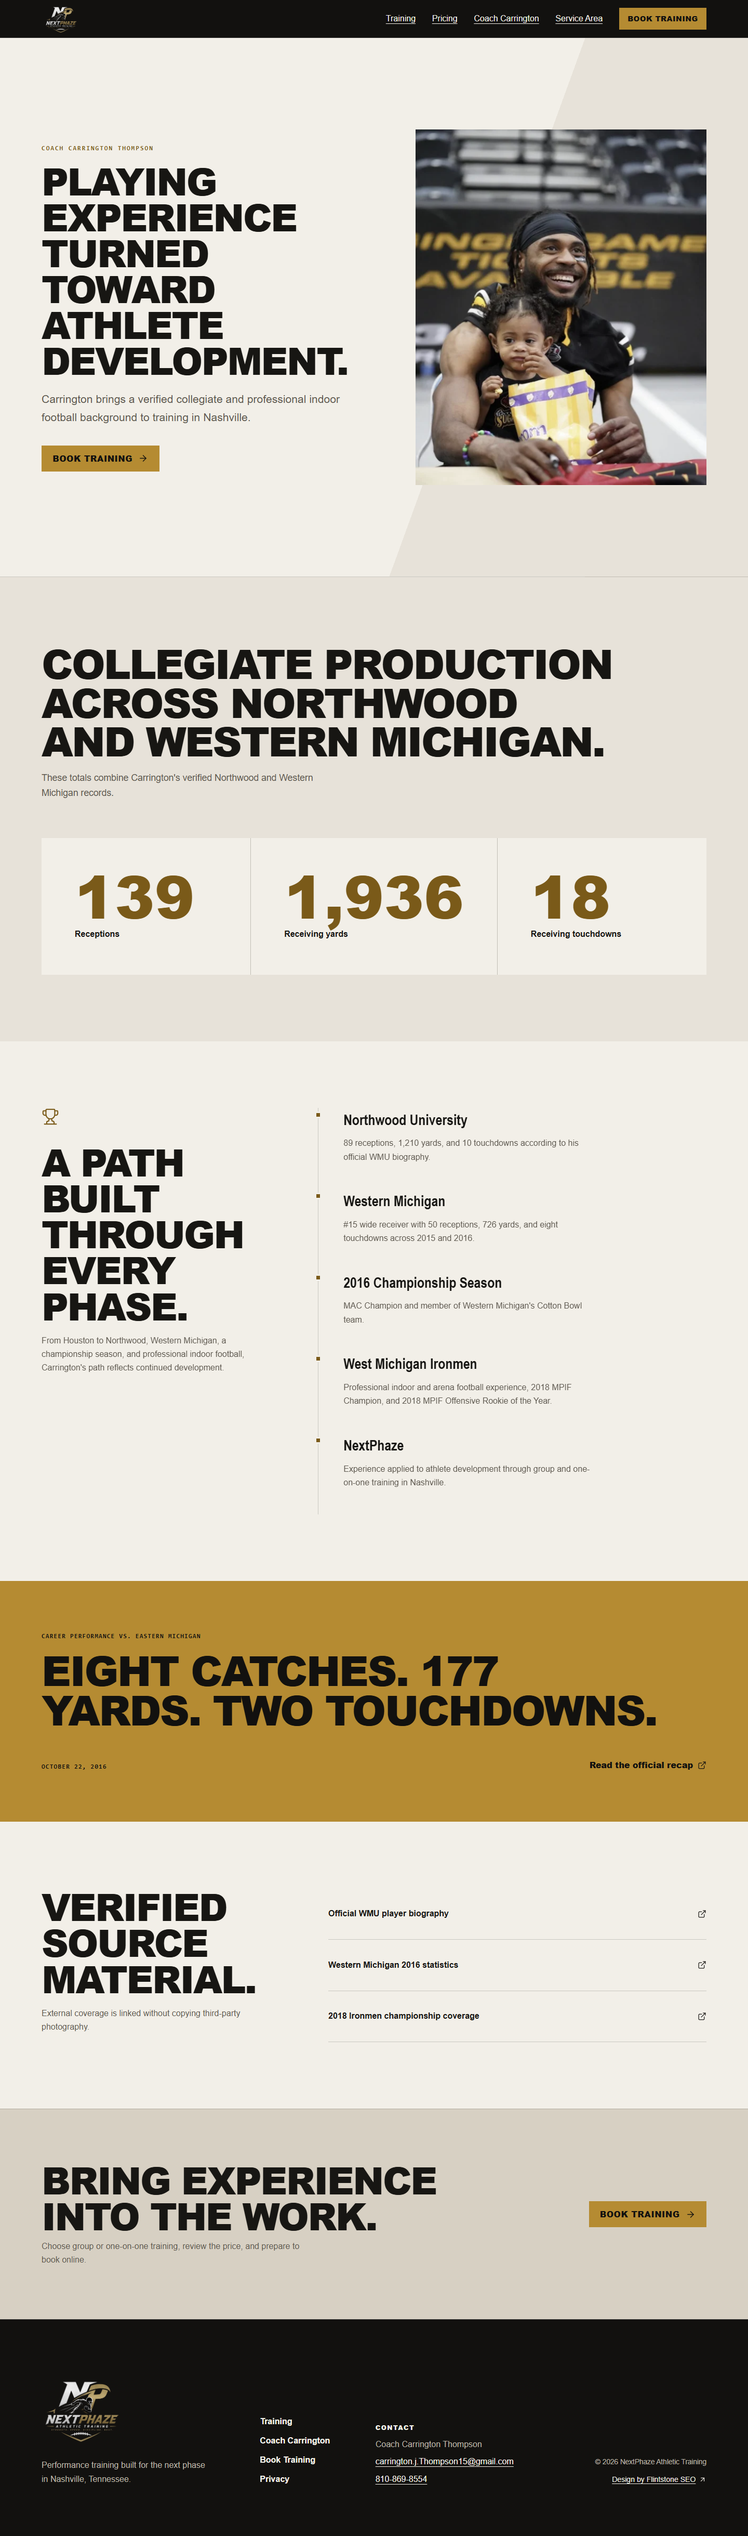
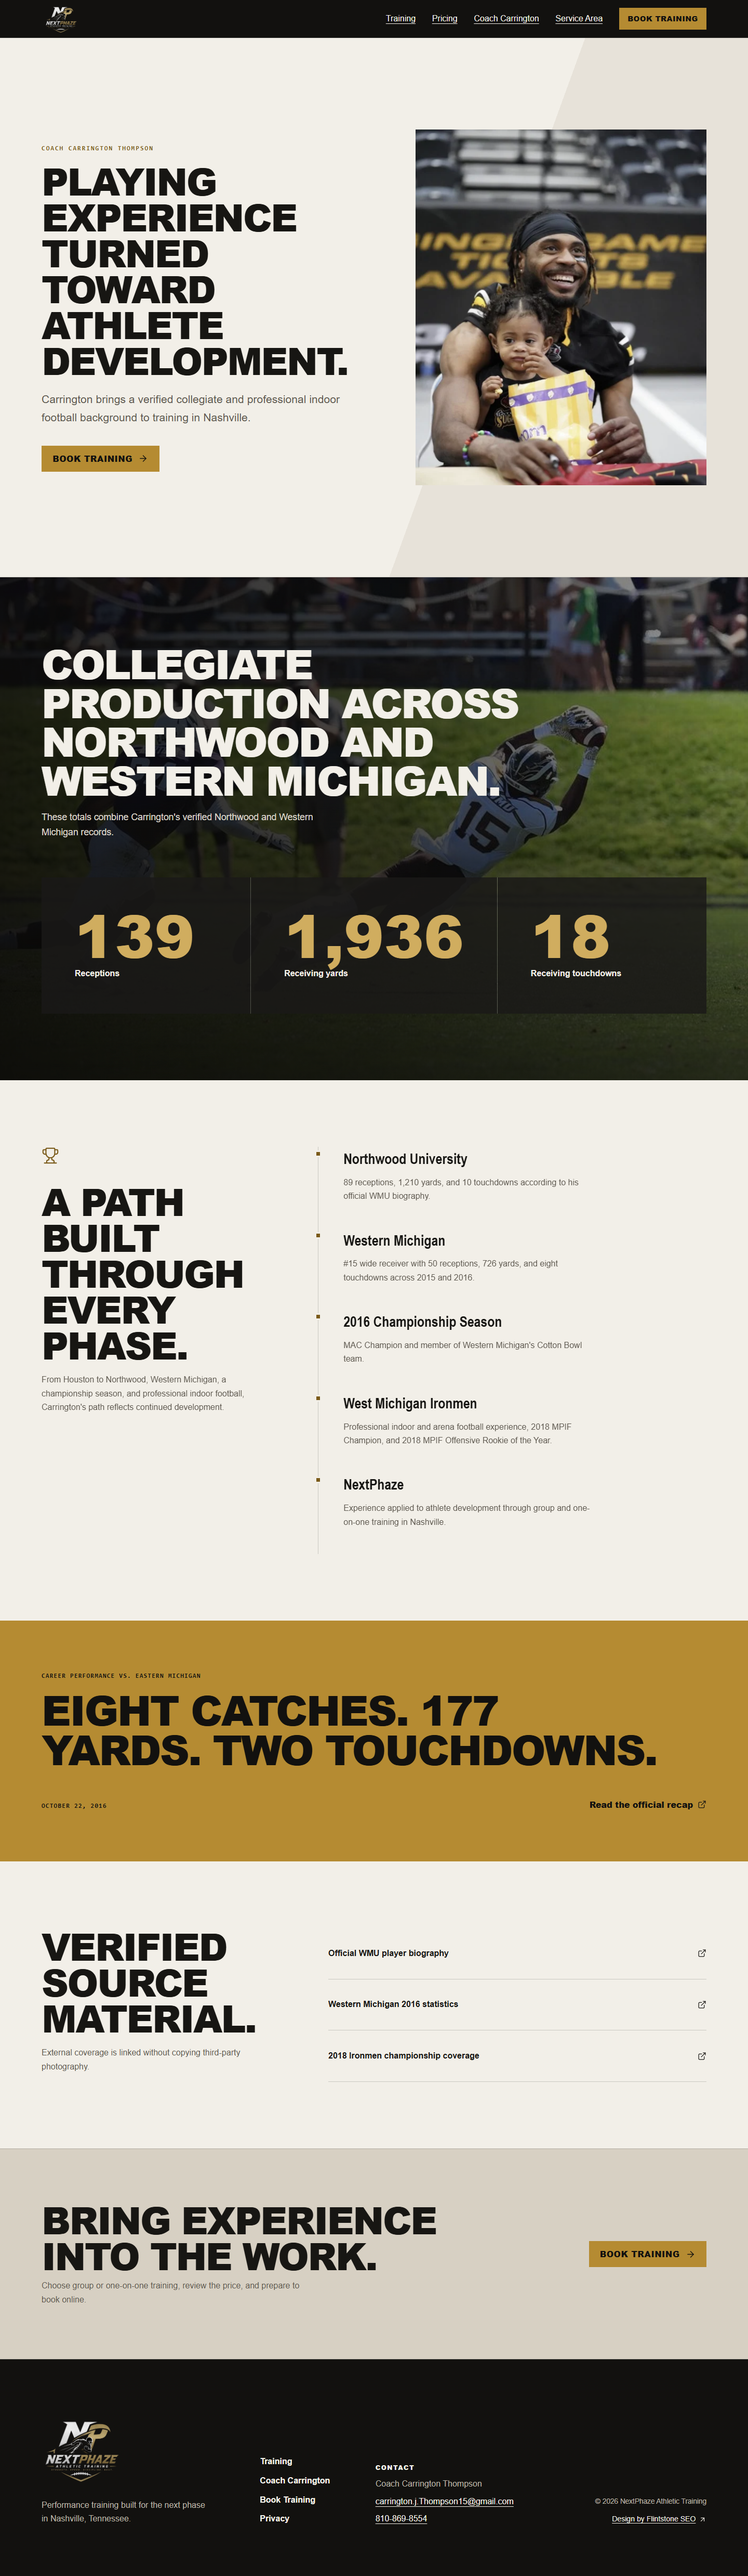
updated image on carrington page

diff --git a/tests/site-qa.spec.ts b/tests/site-qa.spec.ts
@@ -185,3 +185,29 @@ for (const route of ['/coach-carrington/', '/book-training/']) {
     await page.screenshot({ path: `artifacts/screenshots/${name}-1440.png`, fullPage: true });
   });
 }
+
+test('coach statistics remain readable over the career image across viewports', async ({ page }) => {
+  for (const width of [390, 1440]) {
+    await page.setViewportSize({ width, height: width === 390 ? 844 : 1000 });
+    await page.goto('/coach-carrington/', { waitUntil: 'networkidle' });
+
+    const stats = page.locator('.career-stats');
+    const story = page.locator('.career-story');
+    const image = stats.locator('.career-stats-background');
+    const statsBox = await stats.boundingBox();
+    const storyBox = await story.boundingBox();
+
+    expect(statsBox).not.toBeNull();
+    expect(storyBox).not.toBeNull();
+    expect(storyBox!.y).toBeGreaterThanOrEqual(statsBox!.y + statsBox!.height - 1);
+    await image.scrollIntoViewIfNeeded();
+    await expect.poll(() => image.evaluate((element: HTMLImageElement) => element.complete)).toBe(true);
+    expect(await image.evaluate((element: HTMLImageElement) => element.naturalWidth)).toBeGreaterThan(0);
+    await expect(stats.getByRole('heading', { level: 2 })).toBeVisible();
+    await expect(stats.locator('.stat-grid > div')).toHaveCount(3);
+    expect(await page.evaluate(() => document.documentElement.scrollWidth - document.documentElement.clientWidth)).toBeLessThanOrEqual(0);
+
+    await page.evaluate(() => window.scrollTo(0, 0));
+    await page.screenshot({ path: `artifacts/screenshots/coach-carrington-${width}.png`, fullPage: true });
+  }
+});

diff --git a/src/styles/global.css b/src/styles/global.css
@@ -1152,7 +1152,55 @@ h3 {
 }
 
 .career-stats {
-  background: var(--surface);
+  position: relative;
+  isolation: isolate;
+  overflow: hidden;
+  background: #12110f;
+  color: #f2efe8;
+}
+
+.career-stats::before {
+  position: absolute;
+  z-index: -1;
+  inset: 0;
+  background:
+    linear-gradient(90deg, rgb(10 9 8 / 90%) 0%, rgb(10 9 8 / 74%) 50%, rgb(10 9 8 / 38%) 100%),
+    linear-gradient(0deg, rgb(10 9 8 / 72%) 0%, transparent 60%);
+  content: '';
+}
+
+.career-stats-background {
+  position: absolute;
+  z-index: -2;
+  inset: 0;
+  width: 100%;
+  height: 100%;
+  object-fit: cover;
+  object-position: 54% 52%;
+}
+
+.career-stats .section-heading {
+  max-width: 960px;
+}
+
+.career-stats .section-heading p {
+  color: #ded8cc;
+}
+
+.career-stats .stat-grid {
+  background: rgb(255 255 255 / 24%);
+}
+
+.career-stats .stat-grid > div {
+  background: rgb(10 9 8 / 78%);
+}
+
+.career-stats .stat-grid strong {
+  color: #d0ad5f;
+}
+
+.career-stats .stat-grid span {
+  color: #f2efe8;
 }
 
 .career-stats .section-heading h2 {
@@ -1654,6 +1702,20 @@ h3 {
 
   h2 {
     font-size: clamp(2.45rem, 11vw, 4.4rem);
+  }
+
+  .career-stats::before {
+    background:
+      linear-gradient(180deg, rgb(10 9 8 / 88%) 0%, rgb(10 9 8 / 72%) 44%, rgb(10 9 8 / 86%) 100%),
+      linear-gradient(90deg, rgb(10 9 8 / 70%) 0%, rgb(10 9 8 / 30%) 100%);
+  }
+
+  .career-stats-background {
+    object-position: 62% 50%;
+  }
+
+  .career-stats .stat-grid > div {
+    background: rgb(10 9 8 / 74%);
   }
 
   .menu-button {

diff --git a/src/content.config.ts b/src/content.config.ts
@@ -20,7 +20,7 @@ const contentBlock = z.discriminatedUnion('_type', [
   z.object({ _type: z.literal('format_section'), title: z.string(), copy: z.string() }),
   z.object({ _type: z.literal('focus_index'), title: z.string(), image: z.string(), image_alt: z.string() }),
   z.object({ _type: z.literal('coach_hero'), eyebrow: z.string(), title: z.string(), copy: z.string(), button_label: z.string(), button_href: z.string(), image: z.string(), image_alt: z.string() }),
-  z.object({ _type: z.literal('career_stats'), title: z.string(), copy: z.string(), stats: z.array(valueLabel) }),
+  z.object({ _type: z.literal('career_stats'), title: z.string(), copy: z.string(), image: z.string(), image_alt: z.string(), stats: z.array(valueLabel) }),
   z.object({ _type: z.literal('career_story'), title: z.string(), copy: z.string(), items: z.array(textPair) }),
   z.object({ _type: z.literal('performance_callout'), eyebrow: z.string(), title: z.string(), date: z.string(), link_label: z.string(), link_href: z.string() }),
   z.object({ _type: z.literal('source_section'), title: z.string(), copy: z.string(), links: z.array(labelLink) }),

diff --git a/src/cloudcannon/componentMap.ts b/src/cloudcannon/componentMap.ts
@@ -26,4 +26,3 @@ export const componentMap = {
   performance_callout: PerformanceCallout, source_section: SourceSection,
   booking_hero: BookingHero, booking_options: BookingOptions, booking_expectations: BookingExpectations
 } as const;
-

diff --git a/media-provenance.md b/media-provenance.md
@@ -17,6 +17,7 @@ Only assets marked `owned` or `licensed` may be copied into production. Official
 | NP-PHOTO-02 | Client-supplied project folder | Carrington Western Michigan action photo | owned | Homepage coach proof | `/public/images/carrington-wmu-proof.webp` | User explicitly selected this supplied image for the combined WMU #15 and 2016 credential panel on 2026-08-31 |
 | NP-PHOTO-03 | Client-supplied project folder | Carrington Ironmen action photo | owned | Homepage coach proof | `/public/images/carrington-mpif-proof.webp` | User explicitly selected this supplied image for the 2018 MPIF credential panel on 2026-08-31 |
 | NP-PHOTO-04 | Client-supplied project folder | Carrington portrait at an indoor football venue | owned | Coach Carrington hero | `/public/images/carrington-coach-portrait.webp` | User explicitly selected this supplied image for the Coach Carrington page on 2026-08-31 |
+| NP-PHOTO-05 | Client-supplied attachment | Carrington Western Michigan diving catch photo | owned | Coach Carrington statistics background | `/public/images/carrington-wmu-diving-catch.webp` | User explicitly selected this supplied image for the Coach Carrington page on 2026-09-06 |
 | NP-GEN-01 | OpenAI built-in image generation | Synthetic training image | owned | Homepage and 1-on-1 training | `/public/images/training-acceleration.webp` | Anonymous athlete, not Carrington or a client |
 | NP-GEN-02 | OpenAI built-in image generation | Synthetic training image | owned | Training and speed/agility pages | `/public/images/training-lane.webp` | Empty training setup with no people |
 | NP-GEN-03 | OpenAI built-in image generation | Synthetic training image | owned | Wide receiver training page | `/public/images/receiver-catch.webp` | Anonymous athlete, not Carrington or a client |

diff --git a/planning/page-specifications.md b/planning/page-specifications.md
@@ -36,7 +36,7 @@ Objective: explain receiver and football-skill coaching with relevant Carrington
 
 ## `/coach-carrington/`
 
-Objective: establish credibility after explaining Carrington's role as coach. H1: `Coach Carrington Thompson`. Verified proof: Western Michigan #15, 2016 MAC Champion and Cotton Bowl team member, 139 collegiate receptions, 1,936 collegiate receiving yards, 18 collegiate touchdowns across Northwood and Western Michigan, West Michigan Ironmen experience, 2018 MPIF champion, 2018 MPIF Offensive Rookie of the Year. External source links are text-only unless media rights permit otherwise. Title: `Coach Carrington Thompson | NextPhaze Nashville`.
+Objective: establish credibility after explaining Carrington's role as coach. H1: `Coach Carrington Thompson`. Verified proof: Western Michigan #15, 2016 MAC Champion and Cotton Bowl team member, 139 collegiate receptions, 1,936 collegiate receiving yards, 18 collegiate touchdowns across Northwood and Western Michigan, West Michigan Ironmen experience, 2018 MPIF champion, 2018 MPIF Offensive Rookie of the Year. A client-supplied Western Michigan action photograph sits behind the collegiate statistics with a contrast-preserving overlay. External source links are text-only unless media rights permit otherwise. Title: `Coach Carrington Thompson | NextPhaze Nashville`.
 
 ## `/book-training/`
 

diff --git a/templates/design-decision-log.md b/templates/design-decision-log.md
@@ -44,6 +44,10 @@ Decision: replace the abstract right-side coach hero mark with the client-select
 
 Revision: remove the `15 / Western Michigan` overlay after visual review. The portrait is stronger without competing text, while Carrington's Western Michigan history remains documented in the career content below.
 
+## 2026-09-06: Coach page career image
+
+Decision: use the newly supplied Western Michigan diving-catch photograph behind the collegiate statistics with a strong directional scrim and dark statistic panels. Retain the personal portrait in the hero and keep the career timeline as the following section. This replaces the initially tested standalone editorial transition, which the client rejected after visual review.
+
 ## 2026-08-31: Homepage training-focus interaction
 
 Decision: make the training-focus section image-backed and interactive. Selecting a focus opens its description and changes the full-section background image; desktop hover and keyboard focus provide a temporary preview, while a click or tap locks the selection. The directional arrow remains a separate link to the relevant training page so exploration does not unexpectedly navigate away.

diff --git a/src/content/pages/coach-carrington.md b/src/content/pages/coach-carrington.md
@@ -17,6 +17,8 @@ content_blocks:
     title: Collegiate production across Northwood and Western Michigan.
     copy: These totals combine Carrington's verified Northwood and Western Michigan
       records.
+    image: /images/carrington-wmu-diving-catch.webp
+    image_alt: Carrington Thompson wearing number 15 dives to make a catch for Western Michigan
     stats:
       - value: '139'
         label: Receptions
